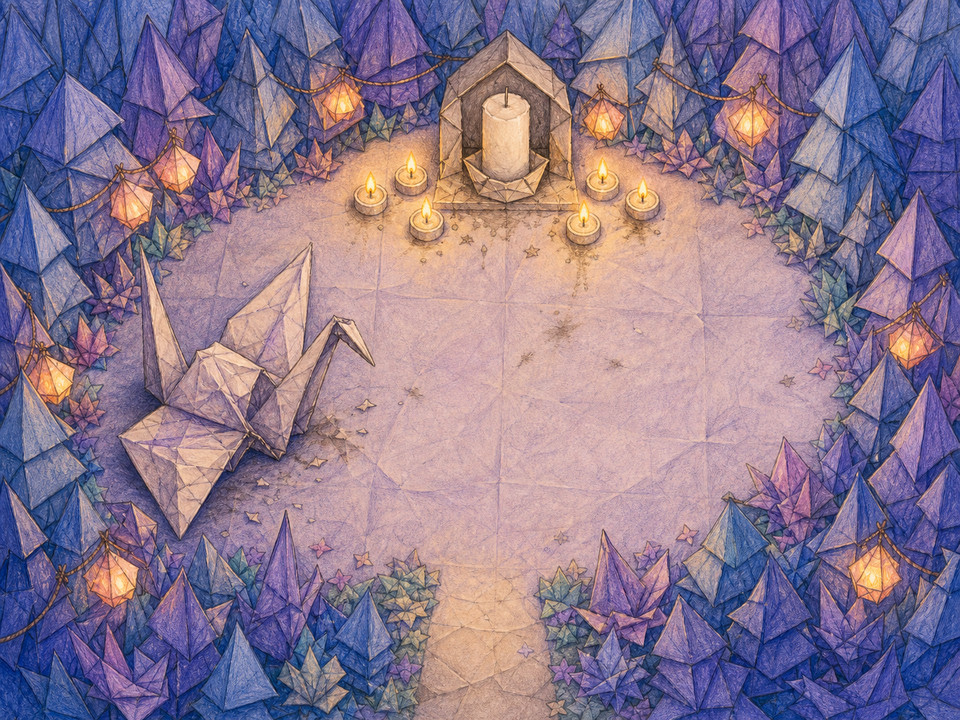
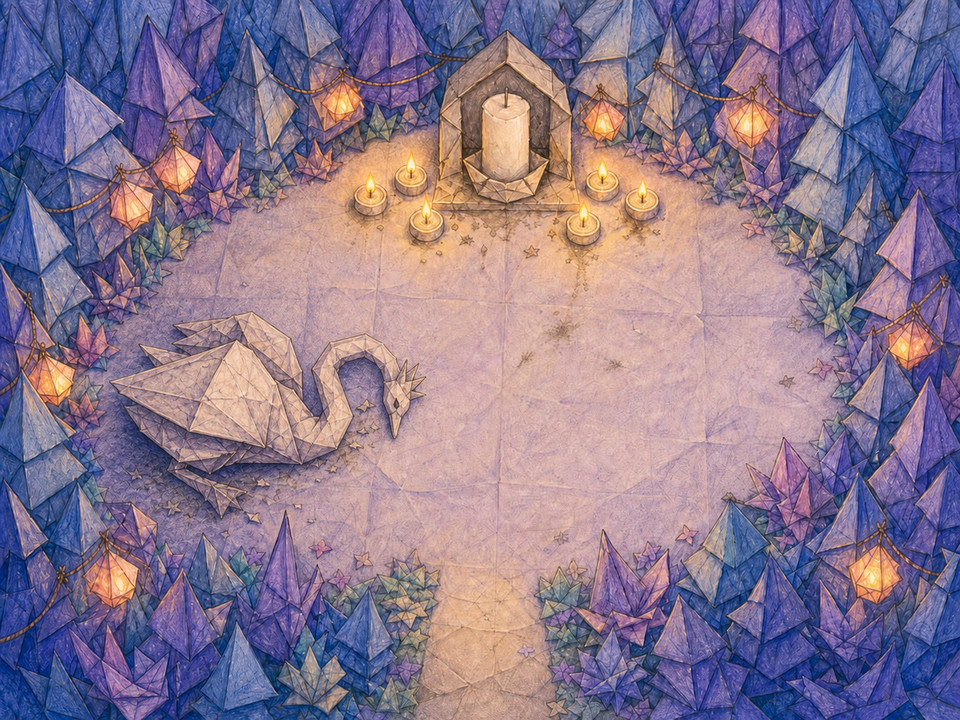
Pacing & kindness patch: +15% damage, giggly encore, richer peace route
- +15% damage in both directions (dmgTo + Keeper's bell), mirrored in
  balance_sim; pacing stays in band (regulars 2-4, bosses 5-8, superboss
  ~10 peaceful, 0% peace losses)
- GIGGLY doodles accept the same Reach Out line twice in a row; calm-
  softening eased to max(0.7, 1-0.045*calm) so talk-downs sting a little
  more (still less than a full fight)
- One new good Reach Out option on the five early doodles and on Tangle,
  the Swan, the Keeper and the Smoother
- Four new skills, folded into old saves via migrateSave (save stays
  version 1): Mira's Quiet Word (storm-break), Biscuit's Emergency
  Biscuit, Wisp's Dim the Lights, Stub's Tiny Sun
- Peace pays better: soothed doodles gift their item x2, +4 Ink with the
  +8 HP
- Woods shrine: whimper text now says "in front of the shrine"; fallen
  queen art edited in place (GPT Image 2) from crane-shaped to a proper
  swan, prompt fixed in prompts.json; collision footprint unchanged
- Verified: validate, regress, both smoke endings, collision audit

diff --git a/src/battle.js b/src/battle.js
@@ -4,9 +4,10 @@
 // disadvantage = 0.75x). Emotions also give passive quirks:
 //   GIGGLY: 12% chance to dodge     GRUMPY: +20% dmg dealt, +15% dmg taken
 //   GLOOMY: -15% dmg taken, +1 ink/round
-// A GIGGLY doodle is also overexcited: its swings hit 15% harder, and it can
-// take TWO hearts a round instead of one — cheering an enemy up speeds peace,
-// but if the reach breaks down you're left fighting a dodgy, wild thing.
+// A GIGGLY doodle is also overexcited: its swings hit 15% harder, it can
+// take TWO hearts a round instead of one, and it accepts the same kind line
+// twice in a row — cheering an enemy up speeds peace, but if the reach breaks
+// down you're left fighting a dodgy, wild thing.
 import { ENEMIES, TROOPS } from "./data/enemies.js";
 import { SKILLS } from "./data/skills.js";
 import { ITEMS } from "./data/items.js";
@@ -209,7 +210,7 @@ export class BattleScene {
       }
       // the option that just landed is greyed out — it needs to hear something
       // new (two members can still race the same option; resolution fizzles it)
-      return opts.map((o) => ({ ref: o, label: o.label, disabled: !e.def.reachStory && o.good && o.label === e.lastReach }));
+      return opts.map((o) => ({ ref: o, label: o.label, disabled: !e.def.reachStory && o.good && o.label === e.lastReach && e.emotion !== "giggly" }));
     }
     if (menu.kind === "item") {
       const inv = this.game.state.inventory;
@@ -285,7 +286,7 @@ export class BattleScene {
   }
 
   dmgTo(target, raw) {
-    let dmg = raw;
+    let dmg = raw * 1.15; // global pacing: +15% damage in both directions
     if (target.emotion === "grumpy") dmg *= 1.15;
     if (target.emotion === "gloomy") dmg *= 0.85;
     const guardMult = target.charm === "charm_locket" ? 0.35 : 0.5;
@@ -346,8 +347,14 @@ export class BattleScene {
       if (!t) return;
       t.emotion = sk.emotion;
       audio.sfx("sfx_emotion");
-      this.addFloater(t, sk.emotion.toUpperCase(), EMOTION_COLOR[sk.emotion]);
-      this.queueMsg(`${a.name} uses ${sk.name}! ${t.name} becomes ${sk.emotion.toUpperCase()}!`);
+      if (sk.emotion === "neutral") {
+        // a calming word: the storm parts, same as a storm-breaking reach
+        this.addFloater(t, "listening...", "#e8d8a0");
+        this.queueMsg(`${a.name} uses ${sk.name}! ${t.name} goes quiet mid-feeling. It's LISTENING now.`);
+      } else {
+        this.addFloater(t, sk.emotion.toUpperCase(), EMOTION_COLOR[sk.emotion]);
+        this.queueMsg(`${a.name} uses ${sk.name}! ${t.name} becomes ${sk.emotion.toUpperCase()}!`);
+      }
     } else if (sk.kind === "heal") {
       const targets = sk.target === "allies" ? this.aliveParty() : [act.target || a];
       audio.sfx("sfx_heal");
@@ -407,7 +414,8 @@ export class BattleScene {
   //    first good option breaks the storm (emotion -> neutral) but gives no calm
   //  - a listening enemy (any emotion but its default) takes +1 calm...
   //  - ...at most once per round (settled) — twice while GIGGLY — and never
-  //    from the same option twice in a row (lastReach)
+  //    from the same option twice in a row (lastReach), except a GIGGLY
+  //    doodle, which loves an encore
   //  - a bad option costs a heart and brings the storm back; on a GIGGLY
   //    doodle the storm doesn't return — the giggle turns wild instead, and
   //    you're facing an enemy with the full cheerful buff (dodge, hard swings)
@@ -438,7 +446,7 @@ export class BattleScene {
         e.emotion = e.storm; // the storm comes back
         this.queueMsg(`${e.name} shrinks back into the bad feeling...${had > 0 ? " A heart flickers out." : ""}`);
       }
-    } else if (o.label === e.lastReach) {
+    } else if (o.label === e.lastReach && e.emotion !== "giggly") {
       this.queueMsg(`${e.name} nods along... but it just heard that one. It needs something NEW.`);
     } else if (e.emotion === e.storm) {
       // the storm gate: this reach breaks through, but the words don't land yet
@@ -478,8 +486,9 @@ export class BattleScene {
     const act = acts[Math.floor(Math.random() * acts.length)];
     const targets = this.aliveParty();
     if (!targets.length) return;
-    // every heart softens the swings — kindness is armor, even mid-fight
-    const soften = Math.max(0.6, 1 - 0.06 * e.calm);
+    // every heart softens the swings — kindness is armor, even mid-fight —
+    // but a doodle being talked down still stings (never below 70%)
+    const soften = Math.max(0.7, 1 - 0.045 * e.calm);
     const msg = (act.msg || "").replace("{e}", e.name);
     if (act.kind === "attack") {
       const list = act.targets === "all" ? targets : [targets[Math.floor(Math.random() * targets.length)]];
@@ -518,7 +527,7 @@ export class BattleScene {
       let text = msg;
       for (const t of targets) {
         t.emotion = "gloomy";
-        const dmg = Math.max(1, Math.round((5 + Math.floor(Math.random() * 4)) * soften));
+        const dmg = Math.max(1, Math.round((5 + Math.floor(Math.random() * 4)) * 1.15 * soften));
         t.hp = Math.max(0, t.hp - dmg);
         this.addFloater(t, `-${dmg}`, "#5a7fc4");
         text += `\n${t.name} takes ${dmg} and turns GLOOMY.`;
@@ -578,14 +587,19 @@ export class BattleScene {
         for (const e of this.enemies) {
           if (e.def.reward && e.def.reward.item) {
             const inv = this.game.state.inventory;
-            inv[e.def.reward.item] = (inv[e.def.reward.item] || 0) + 1;
-            items.push(ITEMS[e.def.reward.item].name);
+            // a soothed doodle presses a second gift into your hands
+            const n = e.soothed ? 2 : 1;
+            inv[e.def.reward.item] = (inv[e.def.reward.item] || 0) + n;
+            items.push(ITEMS[e.def.reward.item].name + (n > 1 ? " ×2" : ""));
           }
         }
         if (this.result === "peace") {
-          for (const m of this.aliveParty()) m.hp = Math.min(m.maxHp, m.hp + 8);
+          for (const m of this.aliveParty()) {
+            m.hp = Math.min(m.maxHp, m.hp + 8);
+            m.ink = Math.min(m.maxInk, m.ink + 4);
+          }
           audio.sfx("sfx_victory");
-          this.queueMsg(`Peace! Everyone feels a little lighter. (+8 HP to the party${items.length ? `, found: ${items.join(", ")}` : ""})`);
+          this.queueMsg(`Peace! Everyone feels a little lighter. (+8 HP and +4 Ink to the party${items.length ? `, gifts: ${items.join(", ")}` : ""})`);
         } else if (this.result === "win") {
           audio.sfx("sfx_victory");
           this.queueMsg(`The battle is over.${items.length ? ` Left behind: ${items.join(", ")}.` : ""}`);

diff --git a/src/data/skills.js b/src/data/skills.js
@@ -20,6 +20,11 @@ export const SKILLS = {
     desc: "The one about the trumpets. Enemy becomes GIGGLY - it listens double, but giggly doodles dodge and swing wild.",
     kind: "emotion", emotion: "giggly",
   },
+  quiet_word: {
+    name: "Quiet Word", ink: 4, target: "enemy",
+    desc: "The small true thing, said softly. Breaks an enemy's storm - it stops to LISTEN.",
+    kind: "emotion", emotion: "neutral",
+  },
   valiant_chomp: {
     name: "Valiant Chomp", ink: 4, target: "enemy",
     desc: "A knight bites back. 160% damage, but Sir Biscuit gets GRUMPY.",
@@ -29,6 +34,11 @@ export const SKILLS = {
     name: "Crumb Wall", ink: 3, target: "allies",
     desc: "Stand behind me! Party takes half damage this turn.",
     kind: "wall",
+  },
+  emergency_biscuit: {
+    name: "Emergency Biscuit", ink: 5, target: "ally",
+    desc: "A knight is always provisioned. Heals an ally 20 HP.",
+    kind: "heal", amount: 20,
   },
   warm_glow: {
     name: "Warm Glow", ink: 5, target: "ally",
@@ -45,6 +55,11 @@ export const SKILLS = {
     desc: "A lullaby hummed off-key. Enemy becomes GLOOMY.",
     kind: "emotion", emotion: "gloomy",
   },
+  dim_the_lights: {
+    name: "Dim the Lights", ink: 6, target: "self",
+    desc: "Wisp turns itself low. The whole party goes GLOOMY - takes less damage, and Ink drips back each round.",
+    kind: "emotion_party", emotion: "gloomy",
+  },
   // ---- Stub
   sun_stroke: {
     name: "Sun Stroke", ink: 3, target: "enemy",
@@ -60,5 +75,10 @@ export const SKILLS = {
     name: "Bright Idea", ink: 0, target: "ally",
     desc: "Stub shares its wax. Gives an ally 6 of Stub's Ink.",
     kind: "inkgift", amount: 6,
+  },
+  tiny_sun: {
+    name: "Tiny Sun", ink: 5, target: "enemy",
+    desc: "A sun so small and proud the enemy can't help it. Enemy becomes GIGGLY - it takes two hearts a round, even the same one twice.",
+    kind: "emotion", emotion: "giggly",
   },
 };

diff --git a/src/data/enemies.js b/src/data/enemies.js
@@ -21,6 +21,7 @@ export const ENEMIES = {
     reach: [
       { label: "Offer a tissue", good: true, text: "Sniffle takes the tissue with both nubs. It blows its button nose. HONK." },
       { label: "Pat gently", good: true, text: "You pat the soggy little ghost. It leans into your hand." },
+      { label: "Cry a little too", good: true, text: "You let your own eyes sting. Sniffle stares - big kids leak too? Somehow that helps." },
       { label: "Stare", good: false, text: "You stare. Sniffle cries harder. Oh no." },
     ],
     peaceText: "Sniffle smiles a tiny wet smile, folds itself into a neat square, and drifts away.",
@@ -39,6 +40,7 @@ export const ENEMIES = {
     reach: [
       { label: "Untangle a line", good: true, text: "You gently pull one loose line free. Scribbles untenses, just a little." },
       { label: "Hum softly", good: true, text: "You hum. The tangle slows its vibrating to listen." },
+      { label: "Buzz along with it", good: true, text: "You shake your hands until they buzz like it does. Scribbles stops. Someone finally speaks static." },
       { label: "Poke it", good: false, text: "You poke the tangle. Your finger gets stuck. Everyone is upset." },
     ],
     peaceText: "Scribbles unravels into one long, relieved line, then curls up into a tidy ball of yarn and rolls off, purring.",
@@ -57,6 +59,7 @@ export const ENEMIES = {
     reach: [
       { label: "Compliment its thorns", good: true, text: "\"Those are excellent thorns,\" you say. Thornbud pretends not to care. Its petals loosen slightly." },
       { label: "Water it", good: true, text: "You share your juice box. Thornbud drinks angrily. Then less angrily." },
+      { label: "Sit among the thorns", good: true, text: "You sit down right in the prickle zone, unbothered. Thornbud keeps waiting for you to flinch. You don't." },
       { label: "Yank a petal", good: false, text: "You yank. OW. Bad idea for everyone involved." },
     ],
     peaceText: "Thornbud hmphs, turns away... and blooms when it thinks you can't see. It's a magnificent flower.",
@@ -75,6 +78,7 @@ export const ENEMIES = {
     reach: [
       { label: "Sew the loose thread", good: true, text: "You tuck the loose thread back through a buttonhole. Clasp sighs with its whole shell." },
       { label: "Wave hello", good: true, text: "You wave. Clasp waves back with both claws, then gets embarrassed." },
+      { label: "Polish its button", good: true, text: "You buff the big button with your sleeve until it shines. Clasp admires its reflection, claws clasped." },
       { label: "Snip the thread", good: false, text: "NO. WRONG. Clasp clutches its unraveling side, horrified." },
     ],
     peaceText: "Clasp, freshly mended, does a happy sideways dance and burrows into the felt sand.",
@@ -93,6 +97,7 @@ export const ENEMIES = {
     reach: [
       { label: "Pick it up", good: true, text: "It's freezing cold. You hold it anyway. It gets a little warmer." },
       { label: "Show it a doodle", good: true, text: "You draw a tiny sun and show it. The Inklet presses against the drawing." },
+      { label: "Hum it a lullaby", good: true, text: "You hum the going-to-sleep song. The Inklet ripples in time, almost purring." },
       { label: "Shoo it", good: false, text: "It doesn't leave. It just droops." },
     ],
     peaceText: "The Inklet glows faintly from inside, turns a deep friendly blue, and hops away leaving tiny flower-shaped ink prints.",
@@ -195,6 +200,7 @@ export const ENEMIES = {
       { label: "\"I'm listening.\"", good: true, text: "The scribbles slow. Somewhere inside, something is trying to talk." },
       { label: "Find the loose end", good: true, text: "You spot one trembling line sticking out, and hold it steady." },
       { label: "Breathe with it", good: true, text: "You breathe in... and out. Slow. The scribbles start to match your rhythm without meaning to." },
+      { label: "\"You can be loud.\"", good: true, text: "Permission. The roar wavers - nobody ever ALLOWED it before. Loud isn't the same as bad. It never knew." },
       { label: "Yell back", good: false, text: "You yell. It yells LOUDER. This is going nowhere." },
     ],
     rallyText: "TANGLE knots itself into one furious fist. It is not done being heard.",
@@ -216,6 +222,7 @@ export const ENEMIES = {
       { label: "Smooth a crease", good: true, text: "You smooth one crease with your thumb. The Swan shivers but lets you." },
       { label: "\"It still flies?\"", good: true, text: "You ask about the crumpled wing. The Swan lifts it, trembling. It does. Differently, but it does." },
       { label: "Sing to her", good: true, text: "You sing the fireflies' little tune, off-key. The Swan's folded neck lifts, remembering the words." },
+      { label: "Bow back", good: true, text: "You bow, low and serious, like she's still the Queen of the Woods. Because she is. The creased neck straightens an inch." },
       { label: "Look away", good: false, text: "You can't look at the broken part. The Swan folds it out of sight. Nothing gets better." },
     ],
     rallyText: "The Swan spreads BOTH wings - even the crumpled one - and the air goes sharp with paper edges.",
@@ -237,6 +244,7 @@ export const ENEMIES = {
       { label: "Listen to the bell", good: true, text: "You make yourself listen, all the way to the end of the ring. It's just a bell. It was always just a bell." },
       { label: "\"It wasn't the bell's fault.\"", good: true, text: "The Keeper's cracked face tilts. Its grip on the bell softens." },
       { label: "Hold its gloved hand", good: true, text: "You take the stiff porcelain hand. It's cold, then a little less cold. Nobody blames a hand for ringing a warning." },
+      { label: "Ring it together", good: true, text: "You put your hand over the gloved one and ring the bell once, on purpose, together. Shared, the sound is so much smaller." },
       { label: "Cover your ears", good: false, text: "You cover your ears. The ringing gets louder INSIDE." },
     ],
     rallyText: "The Bell Keeper's cracks glow faintly. It raises the little bell with both hands now.",
@@ -259,6 +267,7 @@ export const ENEMIES = {
       { label: "\"It WAS drawn.\"", good: true, text: "The doodles in its belly press against the pale skin, like they heard. The smile flickers." },
       { label: "Name the erased dog", good: true, text: "\"His name was PATCH. Right there. Spot over one eye, bark drawn wrong on purpose.\" The Smoother's brush hand trembles. It knows the name is still true." },
       { label: "\"Smooth isn't healed.\"", good: true, text: "The Smoother opens its eyes for the first time. They are very old and very tired of smiling." },
+      { label: "Show your scraped knee", good: true, text: "You show it the scrape from the woods. \"See? Still here. Still mine.\" The Smoother stares at the unsmoothed thing, transfixed." },
       { label: "Ask it to erase the pain", good: false, text: "It brightens terribly and raises the brush. Wrong. WRONG. You want to remember - you want to WANT to remember." },
     ],
     rallyText: "The Smoother's smile goes wide and thin as paper. \"LAST OFFER,\" it says, still kind. \"BLANK IS PAINLESS.\"",

diff --git a/src/data/party.js b/src/data/party.js
@@ -3,21 +3,21 @@ export const PARTY_DEFS = {
   mira: {
     name: "Mira", portrait: "mira",
     hp: 45, ink: 20, atk: 10, def: 6, spd: 8,
-    skills: ["doodle_dash", "cheer", "grump_face", "silly_story"],
+    skills: ["doodle_dash", "cheer", "grump_face", "silly_story", "quiet_word"],
   },
   biscuit: {
     name: "Sir Biscuit", portrait: "biscuit",
     hp: 62, ink: 12, atk: 12, def: 10, spd: 5,
-    skills: ["valiant_chomp", "crumb_wall"],
+    skills: ["valiant_chomp", "crumb_wall", "emergency_biscuit"],
   },
   wisp: {
     name: "Wisp", portrait: "wisp",
     hp: 34, ink: 30, atk: 7, def: 5, spd: 10,
-    skills: ["warm_glow", "candlelight", "soft_song"],
+    skills: ["warm_glow", "candlelight", "soft_song", "dim_the_lights"],
   },
   stub: {
     name: "Stub", portrait: "stub",
     hp: 40, ink: 26, atk: 8, def: 5, spd: 12,
-    skills: ["sun_stroke", "sunrise_sketch", "bright_idea"],
+    skills: ["sun_stroke", "sunrise_sketch", "bright_idea", "tiny_sun"],
   },
 };

diff --git a/src/data/script.js b/src/data/script.js
@@ -460,7 +460,7 @@ export const SCRIPTS = {
     { t: "give", item: "match" }, { t: "flag", key: "got_match", value: true },
   ],
   s_meet_wisp: [
-    n("Behind the shrine, something small is trying very hard not to exist."),
+    n("In front of the shrine, something small is trying very hard not to exist."),
     say("???", "eep. no. i'm not here. i'm a... a lamp. an off lamp."),
     mira("neutral", "Wisp. It's me."),
     say("wisp", "M-Mira?? Oh no. Oh good. Oh no. You can SEE me, that means the dark didn't eat the whole - I mean. Hello. Welcome to the woods. Everything is terrible."),
@@ -478,7 +478,7 @@ export const SCRIPTS = {
       n("The great candle burns steady. The tea-lights lean toward it like children\nat story time."),
     ], else: [
       { t: "if", flag: "wisp_joined", is: false, then: [
-        n("A great white candle stands unlit in its paper alcove.\nSix tiny tea-lights flicker around it, barely holding on.\nSomething whimpers behind the shrine."),
+        n("A great white candle stands unlit in its paper alcove.\nSix tiny tea-lights flicker around it, barely holding on.\nSomething whimpers in front of the shrine."),
       ], else: [
         { t: "if", flag: "got_match", is: true, then: [
           say("wisp", "o-okay. the Brave Match. you strike it, I'll carry the flame up. together, right?"),

diff --git a/docs/DEVLOG.md b/docs/DEVLOG.md
@@ -350,3 +350,41 @@ Add `?debug` to the URL for a collision overlay and `window.__game` hooks.
 *Written at the close of the session that shipped the Full Edition. The compact
 original and the extended cut are both live, both green, and both keep their own
 saves.*
+
+---
+
+## 13. The pacing & kindness patch (2026-07-15)
+
+A follow-up tuning session, all changes sim-checked against §9's bands:
+
+- **+15% damage, both directions** — one multiplier at the top of `dmgTo`
+  (and on the Keeper's bell, which bypasses it), mirrored in
+  `tools/balance_sim.mjs`. Fights resolve about a round faster across the
+  board; regular enemies still land in 2–4, later bosses 5–8, superboss ~10
+  on the peace route.
+- **The encore rule** — a GIGGLY doodle now accepts the *same* kind line twice
+  in a row (`lastReach` is waived while giggly). Deepens the cheer gamble:
+  giggly already took two hearts a round, now a lone party member can supply
+  both.
+- **Softening softened** — calm-softening is now `max(0.7, 1 − 0.045·calm)`
+  (was `max(0.6, 1 − 0.06·calm)`): a doodle being talked down still stings,
+  so the peace route carries slightly more risk. Peace losses stayed 0% in
+  the sim.
+- **Peace pays better** — a soothed doodle gifts its item ×2 (torn ones still
+  drop ×1), and peace now restores +4 Ink alongside the +8 HP.
+- **One new skill per member** — Mira's Quiet Word (sets an enemy `neutral`
+  from the skill menu: a storm-break without burning a reach line — the
+  `emotion` skill kind gained a neutral-aware message), Sir Biscuit's
+  Emergency Biscuit (20 HP heal), Wisp's Dim the Lights (party-wide GLOOMY:
+  damage reduction + ink regen as a defensive stance), Stub's Tiny Sun
+  (enemy GIGGLY, the encore-rule enabler). Existing saves learn them via the
+  `migrateSave` skill fold — no save-shape change, still `version: 1`.
+- **One more good Reach Out option** on each early doodle and on Tangle, the
+  Swan, the Keeper and the Smoother, so the no-repeat rule bites less on
+  small rosters.
+- **Woods shrine fixes** — the whimper text said "behind the shrine" while
+  Wisp visibly hides in front of it; and the fallen queen was prompted as a
+  "fallen giant origami crane" in `tools/prompts.json`, which is why she
+  didn't read as a swan. Prompt rewritten; the baked `bg_woods_2` got an
+  in-place GPT Image 2 edit (crane → swan) so the lit `bg_woods_2_risen`
+  variant still matches.